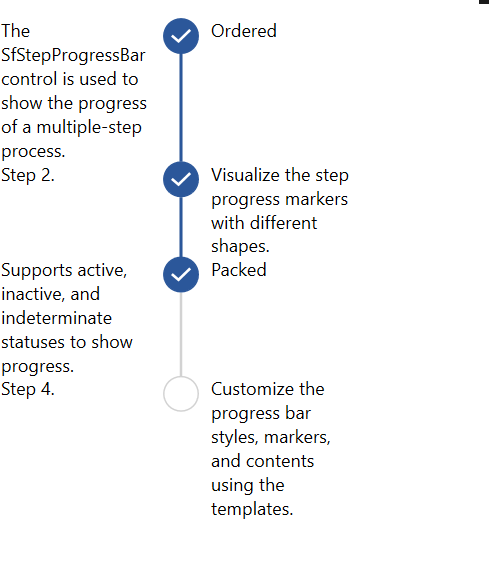
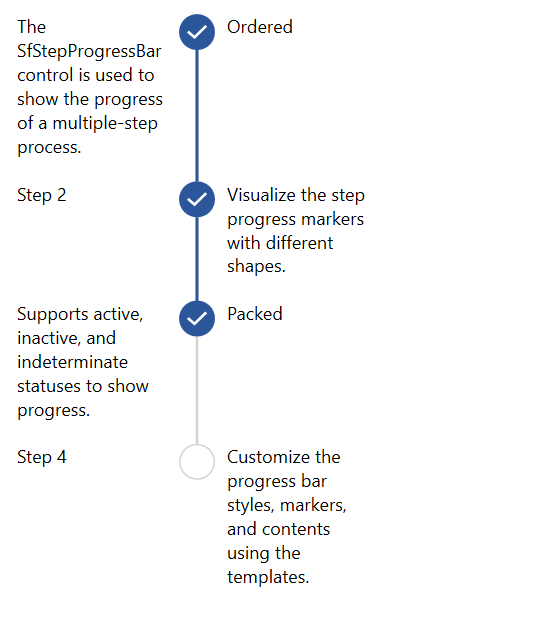
WPF-55745-Need to document 2020 volume 4 features for stepprogressbar and progressbar

Changed region(s): [[0.0, 0.0, 0.7055, 0.9394], [0.0, 0.4545, 0.2761, 0.7273], [0.9816, 0.0, 1.0, 0.0303]]

diff --git a/wpf-toc.html b/wpf-toc.html
@@ -517,11 +517,11 @@
 	<ul>
 	<li><a href="/wpf/Step-ProgressBar/Overview">Overview</a></li>
 	<li><a href="/wpf/Step-ProgressBar/Getting-Started">Getting Started</a></li>
+	<li><a href="/wpf/Step-ProgressBar/Data-Binding">Data Binding</a></li>
+	<li><a href="/wpf/Step-ProgressBar/Selected-Item">Selected Item</a></li>
 	<li><a href="/wpf/Step-ProgressBar/Appearance">Appearance</a></li>
 	<li><a href="/wpf/Step-ProgressBar/Customizing-Data-Templates">Customizing Data Templates</a></li>
-	<li><a href="/wpf/Step-ProgressBar/Data-Binding">Data Binding</a></li>
-	<li><a href="/wpf/Step-ProgressBar/Layouts">Layout Options</a></li>
-	<li><a href="/wpf/Step-ProgressBar/Selected-Item">Selected Item</a></li>
+	<li><a href="/wpf/Step-ProgressBar/Layouts">Layout Options</a></li>	
 	</ul>
 	</li>
     <li>

diff --git a/wpf/Step-ProgressBar/Layouts.md b/wpf/Step-ProgressBar/Layouts.md
@@ -105,30 +105,38 @@ Define the data templates in the Window’s resources.
 
    ~~~xaml
 
-	 <DataTemplate x:Key="FirstStepContentTemplate">
-            <TextBlock Width="100" Text="The SfStepProgressBar control is used to show the progress of a multiple-step process." TextWrapping="Wrap"/>
-        </DataTemplate>
-        <DataTemplate x:Key="SecondStepContentTemplate">
-            <TextBlock Width="100" Text="Visualize the step progress markers with different shapes." TextWrapping="Wrap"/>
-        </DataTemplate>
-        <DataTemplate x:Key="SecondStepSecondaryContentTemplate">
-            <TextBlock Width="100" Text="Step 2." TextWrapping="Wrap"/>
-        </DataTemplate>
-        <DataTemplate x:Key="ThirdStepContentTemplate">
-            <TextBlock Width="100" Text="Supports active, inactive, and indeterminate statuses to show progress." TextWrapping="Wrap"/>
-        </DataTemplate>
-        <DataTemplate x:Key="FourthStepContentTemplate">
-            <TextBlock Width="100" Text="Customize the progress bar styles, markers, and contents using the templates." TextWrapping="Wrap"/>
-        </DataTemplate>
-        <DataTemplate x:Key="FourthStepSecondaryContentTemplate">
-            <TextBlock Width="100" Text="Step 4." TextWrapping="Wrap"/>
-        </DataTemplate>
+    <DataTemplate x:Key="FirstStepContentTemplate">
+        <TextBlock Width="100" Text="The SfStepProgressBar control is used to show the progress of a multiple-step process." TextWrapping="Wrap">
+        <LineBreak/>
+        </TextBlock>
+    </DataTemplate>
+    <DataTemplate x:Key="SecondStepContentTemplate">
+        <TextBlock Width="100" Text="Visualize the step progress markers with different shapes." TextWrapping="Wrap">
+        <LineBreak/>
+        </TextBlock>
+    </DataTemplate>
+    <DataTemplate x:Key="SecondStepSecondaryContentTemplate">
+        <TextBlock Width="100" Text="Step 2" TextWrapping="Wrap"/>
+    </DataTemplate>
+    <DataTemplate x:Key="ThirdStepContentTemplate">
+        <TextBlock Width="100" Text="Supports active, inactive, and indeterminate statuses to show progress." TextWrapping="Wrap">
+        <LineBreak/>
+        </TextBlock>
+    </DataTemplate>
+    <DataTemplate x:Key="FourthStepContentTemplate">
+        <TextBlock Width="100" Text="Customize the progress bar styles, markers, and contents using the templates." TextWrapping="Wrap">
+        <LineBreak/>
+        </TextBlock>
+    </DataTemplate>
+    <DataTemplate x:Key="FourthStepSecondaryContentTemplate">
+        <TextBlock Width="100" Text="Step 4" TextWrapping="Wrap"/>
+    </DataTemplate>
 
    ~~~
 
 {% tabs %}
 {% highlight XAML %}      
-  <Grid Name="grid">
+    <Grid Name="grid">
         <syncfusion:SfStepProgressBar SelectedIndex="2" Margin="20" Orientation="Vertical" ItemsStretch="Auto">
             <syncfusion:StepViewItem Content="Ordered" SecondaryContentTemplate="{StaticResource FirstStepContentTemplate}"/>
             <syncfusion:StepViewItem ContentTemplate="{StaticResource SecondStepContentTemplate}" SecondaryContentTemplate="{StaticResource SecondStepSecondaryContentTemplate}"/>
@@ -138,32 +146,32 @@ Define the data templates in the Window’s resources.
     </Grid>
 {% endhighlight %}
 {% highlight C# %}
- SfStepProgressBar stepProgressBar = new SfStepProgressBar();
-            stepProgressBar.Orientation = Orientation.Vertical;
-            StepViewItem orderedStepViewItem = new StepViewItem();
-            StepViewItem shippedStepViewItem = new StepViewItem();
-            StepViewItem packedStepViewItem = new StepViewItem();
-            StepViewItem deliveredStepViewItem = new StepViewItem();
+SfStepProgressBar stepProgressBar = new SfStepProgressBar();
+stepProgressBar.Orientation = Orientation.Vertical;
+StepViewItem orderedStepViewItem = new StepViewItem();
+StepViewItem shippedStepViewItem = new StepViewItem();
+StepViewItem packedStepViewItem = new StepViewItem();
+StepViewItem deliveredStepViewItem = new StepViewItem();
 
-            orderedStepViewItem.Content = "Ordered";
-            shippedStepViewItem.ContentTemplate = FindResource("SecondStepContentTemplate") as DataTemplate;
-            packedStepViewItem.Content = "Packed";
-            deliveredStepViewItem.ContentTemplate = FindResource("FourthStepContentTemplate") as DataTemplate;
+orderedStepViewItem.Content = "Ordered";
+shippedStepViewItem.ContentTemplate = FindResource("SecondStepContentTemplate") as DataTemplate;
+packedStepViewItem.Content = "Packed";
+deliveredStepViewItem.ContentTemplate = FindResource("FourthStepContentTemplate") as DataTemplate;
 
-            orderedStepViewItem.SecondaryContentTemplate = FindResource("FirstStepContentTemplate") as DataTemplate;
-            shippedStepViewItem.SecondaryContentTemplate = FindResource("SecondStepSecondaryContentTemplate") as DataTemplate;
-            packedStepViewItem.SecondaryContentTemplate = FindResource("ThirdStepContentTemplate") as DataTemplate;
-            deliveredStepViewItem.SecondaryContentTemplate = FindResource("FourthStepSecondaryContentTemplate") as DataTemplate;
+orderedStepViewItem.SecondaryContentTemplate = FindResource("FirstStepContentTemplate") as DataTemplate;
+shippedStepViewItem.SecondaryContentTemplate = FindResource("SecondStepSecondaryContentTemplate") as DataTemplate;
+packedStepViewItem.SecondaryContentTemplate = FindResource("ThirdStepContentTemplate") as DataTemplate;
+deliveredStepViewItem.SecondaryContentTemplate = FindResource("FourthStepSecondaryContentTemplate") as DataTemplate;
 
-            stepProgressBar.Items.Add(orderedStepViewItem);
-            stepProgressBar.Items.Add(shippedStepViewItem);
-            stepProgressBar.Items.Add(packedStepViewItem);
-            stepProgressBar.Items.Add(deliveredStepViewItem);
+stepProgressBar.Items.Add(orderedStepViewItem);
+stepProgressBar.Items.Add(shippedStepViewItem);
+stepProgressBar.Items.Add(packedStepViewItem);
+stepProgressBar.Items.Add(deliveredStepViewItem);
 
-            stepProgressBar.SelectedIndex = 2;
-            stepProgressBar.ItemsStretch = ItemsStretch.Fill;
+stepProgressBar.SelectedIndex = 2;
+stepProgressBar.ItemsStretch = ItemsStretch.Fill;
 
-            grid.Children.Add(stepProgressBar);           
+grid.Children.Add(stepProgressBar);           
 {% endhighlight %}
 {% endtabs %}
 ![Items auto image](Layout_images/Itemsauto.png)
@@ -195,7 +203,7 @@ You can customize the value that indicates the minimum space between the step vi
 Implementing the above code will create the following Step ProgressBar control.
 ![MinimumItemSpacing image](Customizing-Data-Templates_images/MinimumItemSpacing.png)
 
-## Flow Direction RTL
+## RTL
 
 you can customize the flow direction of `SfStepProgressBar` by using `FlowDirection` property.
 

diff --git a/wpf/Step-ProgressBar/Appearance.md b/wpf/Step-ProgressBar/Appearance.md
@@ -137,36 +137,16 @@ grid.Children.Add(stepProgressBar);
 
 You can get the `StepViewItem` values when the marker of step view item is clicked. The following example shows this.
 
-Define the data templates in the Window’s resources.
-
- ~~~xaml
-   
-<Window.Resources>
-    <DataTemplate x:Key="FirstStepSecondaryContentTemplate">
-        <TextBlock VerticalAlignment="Center" HorizontalAlignment="Center" Text="Step 1"/>
-    </DataTemplate>
-    <DataTemplate x:Key="SecondStepSecondaryContentTemplate">
-        <TextBlock VerticalAlignment="Center" HorizontalAlignment="Center" Text="Step 2"/>
-    </DataTemplate>
-    <DataTemplate x:Key="ThirdStepSecondaryContentTemplate">
-        <TextBlock VerticalAlignment="Center" HorizontalAlignment="Center" Text="Step 3"/>
-    </DataTemplate>
-    <DataTemplate x:Key="FourthStepSecondaryContentTemplate">
-        <TextBlock VerticalAlignment="Center" HorizontalAlignment="Center" Text="Step 4"/>
-    </DataTemplate>
-</Window.Resources>
-   ~~~
 {% tabs %}
 {% highlight xaml %}
 
 <Syncfusion:SfStepProgressBar
     SelectedIndex="2"
-    MarkerClicked="SfStepProgressBar_MarkerClicked"
-    SelectedItemStatus="Indeterminate">
-    <Syncfusion:StepViewItem Content="Ordered" SecondaryContentTemplate="{StaticResource FirstStepSecondaryContentTemplate}" />
-    <Syncfusion:StepViewItem Content="Packed" SecondaryContentTemplate="{StaticResource SecondStepSecondaryContentTemplate}" />
-    <Syncfusion:StepViewItem Content="Shipped" SecondaryContentTemplate="{StaticResource ThirdStepSecondaryContentTemplate}" />
-    <Syncfusion:StepViewItem Content="Delivered" SecondaryContentTemplate="{StaticResource FourthStepSecondaryContentTemplate}" />
+    MarkerClicked="SfStepProgressBar_MarkerClicked">
+    <Syncfusion:StepViewItem Content="Ordered" />
+    <Syncfusion:StepViewItem Content="Packed" />
+    <Syncfusion:StepViewItem Content="Shipped" />
+    <Syncfusion:StepViewItem Content="Delivered" />
 </Syncfusion:SfStepProgressBar>
 {% endhighlight %}
 

diff --git a/wpf/Circular-ProgressBar/Appearance.md b/wpf/Circular-ProgressBar/Appearance.md
@@ -199,6 +199,8 @@ grid.Children.Add(circular);
 ## Corner radius
 The [IndicatorCornerRadius](https://help.syncfusion.com/cr/wpf/Syncfusion.UI.Xaml.ProgressBar.ProgressBarBase.html#Syncfusion_UI_Xaml_ProgressBar_ProgressBarBase_IndicatorCornerRadiusProperty) property is used to frame rounded edges in the circular progressbar as demonstrated in the following code sample.
 
+N> Proper IndicatorConerRadius value can be set using the formula IndicatorOuterRadius * 10 = IndicatorCornerRadius.
+
 {% tabs %}
 {% highlight XAML %}
 <Grid Name="grid">
@@ -229,7 +231,7 @@ grid.Children.Add(circular);
 ![Corner radius image](Appearance_images/CornerRadius.png)
 
 ## AnimationDuration
-You can customize the duration for completing one animation cycle and it applies when the `IsIndeterminate` is true. The default value is 3000 milli seconds.
+You can customize the duration for completing one animation cycle and it applies when the `IsIndeterminate` is true. The default value is `3000ms`.
 {% tabs %}
 {% highlight XAML %}
 <Grid Name="grid">
@@ -256,7 +258,7 @@ grid.Children.Add(circular);
 ![AnimationDuration image](Appearance_images/CircularAnimation.gif)
 
 ## AnimationEasing
-You can customize the easing function to apply for linear and circular progress bar animation and it applies when the `IsIndeterminate` is true. T
+You can customize the easing function to apply for linear and circular progress bar animation and it applies when the `IsIndeterminate` is true.
 {% tabs %}
 {% highlight XAML %}
 <Grid Name="grid">

diff --git a/wpf/Linear-ProgressBar/Appearance.md b/wpf/Linear-ProgressBar/Appearance.md
@@ -7,7 +7,7 @@ control: SfLinearProgressBar
 documentation: ug
 ---
 
-# Appearance
+# Appearance in Linear ProgressBar
 You can highly customize the appearance of the linear progressbar in the following ways.
 
 ## Corner radius
@@ -134,7 +134,7 @@ grid.Children.Add(linear);
 ![RangeColorsimage](Appearance_images/Gradient.png)
 
 ## AnimationDuration
-You can customize the duration for completing one animation cycle and it applies when the `IsIndeterminate` is true. The default value is 3000 milli seconds.
+You can customize the duration for completing one animation cycle and it applies when the `IsIndeterminate` is true. The default value is `3000ms`.
 {% tabs %}
 {% highlight XAML %}
 <Grid Name="grid">
@@ -159,7 +159,7 @@ grid.Children.Add(linear);
 ![AnimationDuration image](Appearance_images/LinearAnimation.gif)
 
 ## AnimationEasing
-You can customize the easing function to apply for linear and circular progress bar animation and it applies when the `IsIndeterminate` is true. T
+You can customize the easing function to apply for linear and circular progress bar animation and it applies when the `IsIndeterminate` is true.
 {% tabs %}
 {% highlight XAML %}
 <Grid Name="grid">

diff --git a/wpf/Step-ProgressBar/Customizing-Data-Templates.md b/wpf/Step-ProgressBar/Customizing-Data-Templates.md
@@ -275,7 +275,7 @@ This will populate the Step ProgressBar control.
 
 Download demo from [GitHub](https://github.com/SyncfusionExamples/WPF-StepProgressBar-Demos/tree/master/Samples/MarkerTemplateSelector).
 
-## SecondaryContentTemplate for Step ProgressBar
+## Secondary content in Step Progressbar
 You can gets or sets the data template used to display the secondary content of `StepViewItem` by using the `SecondaryContentTemplate` property. The following example shows how to customize the step view item's secondary content with DataTemplate.
 
 {% highlight xaml %}
@@ -438,7 +438,7 @@ Using the SecondaryContentTemplateSelector, you can use the different templates 
 This will generate the following Step ProgressBar control.
 ![Item Template Selector image](Customizing-Data-Templates_images/SecondaryContentTemplateSelector.png)
 
-## SecondaryContentTemplate for Step View Item
+## SecondaryContentTemplate in Step View Item
 
 You can gets or sets the data template used to display the secondary content of `StepViewItem` by using the `SecondaryContentTemplate` property. The following example shows how to customize the step view item's secondary content with DataTemplate.
 
